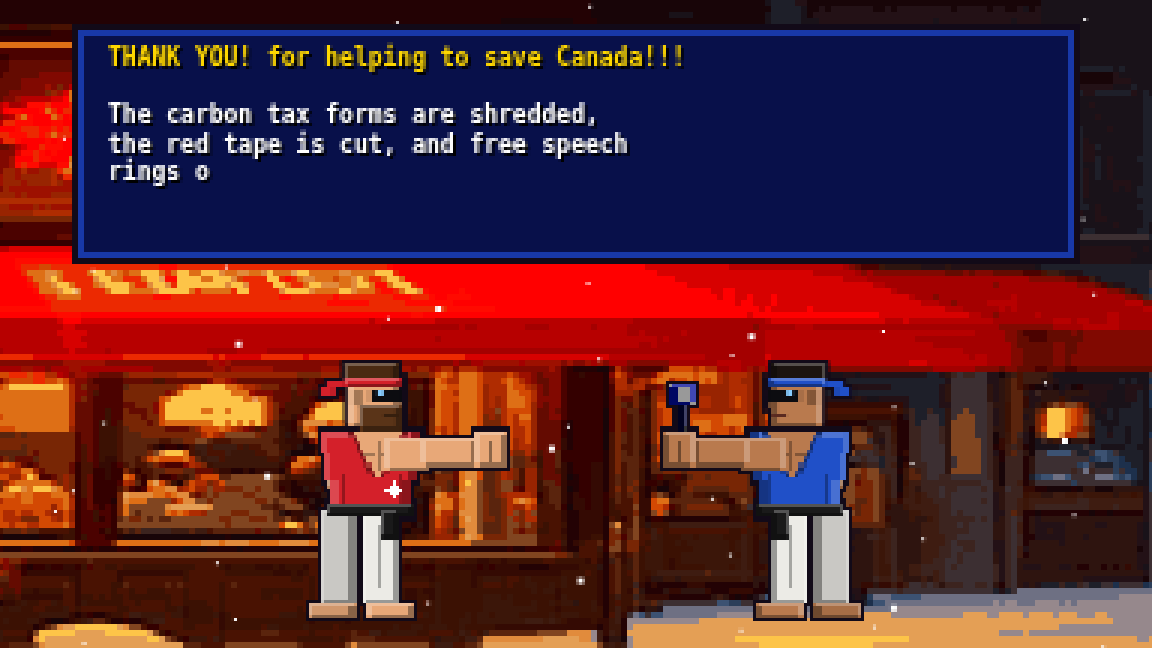
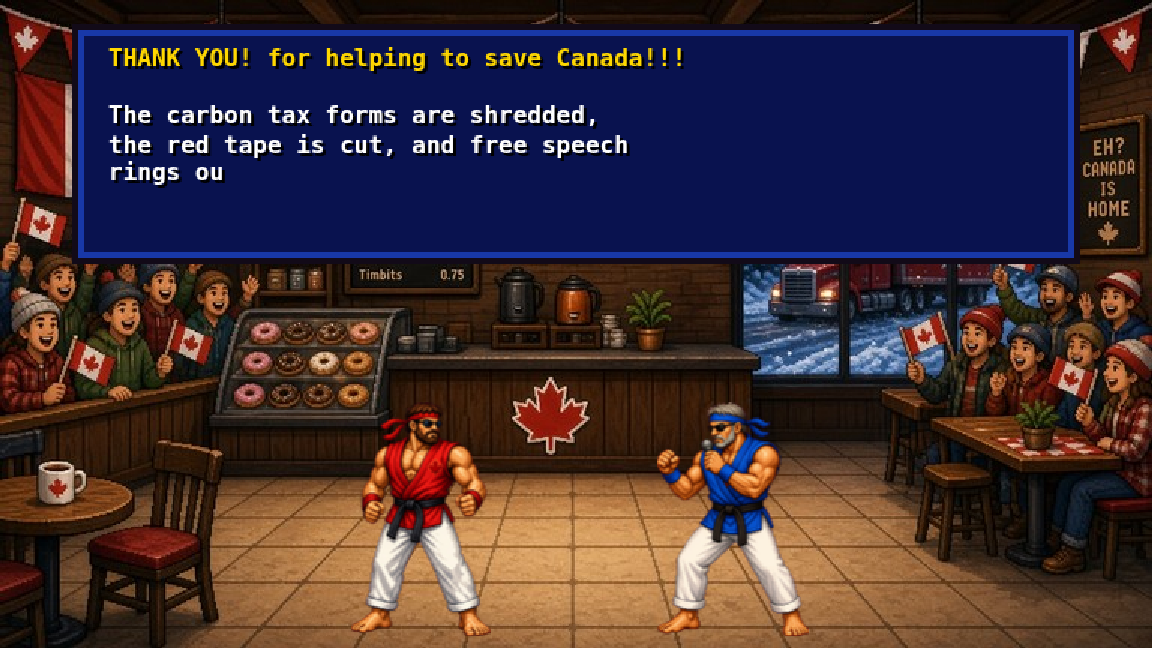
Use generated 16-bit art: keyed sprites, illustrated stages, 2x canvas

diff --git a/art.js b/art.js
@@ -1,132 +1,61 @@
 'use strict';
-// Detailed 16-bit style sprites: shaded parts + dark outline, cached per pose/frame.
-const IMG={};['stage1','stage2','ending','title'].forEach(n=>{const i=new Image();i.src='assets/'+n+'.png';IMG[n]=i;});
-function sh(hex,a){let n=parseInt(hex.slice(1),16),r=n>>16,g=n>>8&255,b=n&255;const f=v=>Math.max(0,Math.min(255,Math.round(a>0?v+(255-v)*a:v*(1+a))));return'#'+((1<<24)|(f(r)<<16)|(f(g)<<8)|f(b)).toString(16).slice(1);}
-function bx(c,x,y,w,h,col){c.fillStyle=col;c.fillRect(x,y,w,h);if(w>2&&h>2){c.fillStyle=sh(col,.25);c.fillRect(x,y,1,h-1);c.fillRect(x,y,w-1,1);c.fillStyle=sh(col,-.35);c.fillRect(x+w-2,y+1,2,h-1);c.fillRect(x+1,y+h-1,w-1,1);}}
+// Sprite/background renderer using pre-made 16-bit art (assets/). Logical canvas 384x216, drawn at 2x.
 const OUT='#120a18';
-const SP={
- trucker:{skin:'#e8a878',gi:'#d4202a',pants:'#ecebe6',belt:'#1a1a1a',band:'#d4202a',shades:1,beard:'#5a3418',hair:'#4a2a12',feet:'skin',leaf:1,vest:1},
- reporter:{skin:'#b97a4e',gi:'#2050c8',pants:'#ecebe6',belt:'#1a1a1a',band:'#2050c8',shades:1,hair:'#1c1410',feet:'skin',mic:1,vest:1},
- taxman:{skin:'#e0a880',gi:'#a89058',pants:'#5a4c34',belt:'#5a4c34',hair:'#3a2a1a',hat:'#3a3428',feet:'#1a1410',clip:1,coat:1},
- bureau:{skin:'#c88e64',gi:'#3c4458',pants:'#2e3446',belt:'#2e3446',hair:'#2a2420',glasses:1,feet:'#111',tie:'#c02020',suit:1,stamp:1},
- bot:{skin:'#9aa4b4',gi:'#6c7688',pants:'#4c5466',belt:'#c02020',feet:'#30343e',robot:1},
- boss:{skin:'#d09a70',gi:'#1e1e26',pants:'#16161c',belt:'#16161c',hair:'#6a6a70',feet:'#000',tie:'#d4a020',suit:1,brief:1,glasses:1}};
-function body(c,s,pose,f){
- const sk=s.skin,gi=s.gi,pa=s.pants,armCol=s.vest?sk:gi,hand=s.robot?'#c8d0dc':sk;
- const bob=pose==='idle'?(f%2):0,lean=pose==='hurt'?-4:pose==='punch'?3:0;
- const st=pose==='walk'?[-5,0,5,0][f%4]:0;
- const T=-52+bob, feetC=s.feet==='skin'?sk:s.feet;
- // back arm
- const backArm=()=>{if(pose==='punch'){bx(c,-12+lean,T+4,8,12,sh(armCol,-.2));bx(c,-10+lean,T+14,8,7,sh(hand,-.2));}
-  else if(pose==='hurt'){bx(c,-18+lean,T+1,10,7,sh(armCol,-.2));bx(c,-24+lean,T-4,7,7,sh(hand,-.2));}
-  else{bx(c,-10+lean-st/2,T+3,8,13,sh(armCol,-.2));bx(c,-6+lean-st/2,T-2,7,9,sh(armCol,-.2));bx(c,-6+lean-st/2,T-7,8,7,sh(hand,-.2));
-   if(s.clip){bx(c,-11+lean,T+4,11,14,'#9a6a3a');c.fillStyle='#f4f0e0';c.fillRect(-10+lean,T+6,9,10);c.fillStyle='#555';for(let i=0;i<4;i++)c.fillRect(-9+lean,T+7+i*2,6,1);}}};
- // legs
- const legs=()=>{if(pose==='kick'){bx(c,-9,-30,10,26,sh(pa,-.15));bx(c,-11,-4,12,4,feetC);bx(c,0,T+18,30,10,pa);bx(c,28,T+16,9,11,feetC);}
-  else{bx(c,-11-st,-30,10,26,sh(pa,-.15));bx(c,-14-st,-4,13,4,sh(feetC,-.1));bx(c,1+st,-30,10,26,pa);bx(c,2+st,-4,13,4,feetC);
-   if(!s.robot){c.fillStyle=sh(pa,-.3);c.fillRect(5+st,-26,1,18);}}};
- const torso=()=>{const x=-12+lean;
-  if(s.robot){bx(c,x-1,T,26,24,gi);bx(c,x+4,T+5,14,10,'#20242c');c.fillStyle='#ff3030';c.fillRect(x+6,T+8,10,3);c.fillStyle='#fff';c.font='bold 5px monospace';c.fillText('',0,0);bx(c,x+2,T+18,20,4,'#c02020');return;}
-  for(let i=0;i<24;i++){const w=i<6?28:i<14?26:22,xx=x+12-w/2;c.fillStyle=i<2?sh(gi,.2):gi;c.fillRect(xx,T+i,w,1);c.fillStyle=sh(gi,.18);c.fillRect(xx,T+i,2,1);c.fillStyle=sh(gi,-.35);c.fillRect(xx+w-3,T+i,3,1);}
-  if(s.vest){for(let i=0;i<13;i++){const w=Math.max(0,14-i);c.fillStyle=sk;c.fillRect(x+12-w/2+2,T+i,w,1);}
-   c.fillStyle=sh(sk,-.3);c.fillRect(x+14,T+3,1,8);c.fillRect(x+9,T+6,4,1);c.fillRect(x+15,T+6,4,1);
-   c.fillStyle=sh(gi,-.45);for(let i=0;i<13;i++){const w=Math.max(0,14-i);c.fillRect(x+12-w/2+1,T+i,1,1);c.fillRect(x+12+w/2+2,T+i,1,1);}
-   c.fillStyle=sh(gi,-.3);c.fillRect(x+4,T+12,1,8);c.fillRect(x+20,T+12,1,8);if(s.leaf)leaf(c,x+16,T+14,'#fff');}
-  if(s.suit||s.coat){c.fillStyle='#f0f0f0';c.fillRect(x+13,T,6,12);if(s.tie){bx(c,x+15,T+1,3,13,s.tie);}c.fillStyle=sh(gi,-.4);c.fillRect(x+12,T,1,16);c.fillRect(x+19,T,1,16);}
-  if(s.coat){bx(c,x,T+20,24,10,gi);}
-  bx(c,x,T+20,24,4,s.belt);if(s.vest){bx(c,x+15,T+22,5,8,s.belt);}};
- const head=()=>{const x=-7+lean*1.3,y=T-17;
-  if(s.robot){bx(c,x-1,y,16,15,'#aab4c4');bx(c,x+3,y+4,12,6,'#14181e');c.fillStyle='#ff3030';c.fillRect(x+4,y+6,10,2);c.fillStyle='#ff3030';c.fillRect(x+6,y-6,2,2);c.fillStyle='#888';c.fillRect(x+6,y-4,2,4);return;}
-  bx(c,x,y,14,16,sk);c.fillStyle=sh(sk,-.3);c.fillRect(x+1,y+6,3,4);// ear
-  bx(c,x-1,y-2,15,6,s.hair);if(s.hat){bx(c,x-3,y-1,20,3,s.hat);bx(c,x,y-6,14,6,s.hat);}
-  if(s.band){bx(c,x-1,y+2,16,3,s.band);c.fillStyle=s.band;c.fillRect(x-6,y+3,5,2);c.fillRect(x-8,y+5,4,2);}
-  if(s.shades){c.fillStyle='#0c0c10';c.fillRect(x+6,y+6,9,3);c.fillStyle='#8cf';c.fillRect(x+8,y+6,2,1);}
-  else if(s.glasses){c.fillStyle='#222';c.fillRect(x+7,y+6,8,1);c.fillRect(x+7,y+6,3,3);c.fillRect(x+12,y+6,3,3);c.fillStyle='#000';c.fillRect(x+11,y+8,1,1);}
-  else{c.fillStyle='#000';c.fillRect(x+10,y+7,2,2);c.fillRect(x+9,y+5,4,1);}
-  c.fillStyle=sh(sk,-.35);c.fillRect(x+13,y+9,2,2);// nose
-  if(s.beard){bx(c,x+3,y+10,12,7,s.beard);c.fillStyle=sh(s.beard,-.4);c.fillRect(x+10,y+12,4,1);}
-  else{c.fillStyle=pose==='hurt'?'#600':'#5a2a20';c.fillRect(x+10,y+12,pose==='hurt'?3:4,pose==='hurt'?3:1);}};
- const frontArm=()=>{const x=lean;if(s.vest&&pose!=='punch'){bx(c,x+6,T-1,10,9,sh(gi,.05));}
-  if(pose==='punch'){bx(c,x+4,T+2,12,9,armCol);bx(c,x+14,T+2,16,8,armCol);bx(c,x+29,T,9,10,hand);c.fillStyle=sh(hand,-.4);c.fillRect(x+33,T+3,1,6);if(s.mic){bx(c,x+31,T-8,3,8,'#333');bx(c,x+29,T-13,7,6,'#999');}}
-  else if(pose==='hurt'){bx(c,x+2,T+1,8,12,armCol);bx(c,x+6,T+10,7,7,hand);}
-  else{bx(c,x+4+st/2,T+2,9,14,armCol);c.fillStyle=sh(armCol,-.3);c.fillRect(x+7+st/2,T+5,1,6);bx(c,x+9+st/2,T-2,8,10,armCol);bx(c,x+9+st/2,T-8,9,8,hand);
-   if(s.mic){bx(c,x+12,T-14,3,7,'#333');bx(c,x+10,T-20,7,7,'#999');c.fillStyle='#666';c.fillRect(x+11,T-18,5,1);}
-   if(s.stamp){bx(c,x+15,T-6,4,8,'#5a3a1a');bx(c,x+12,T+1,10,5,'#b02020');}
-   if(s.brief){bx(c,x+8,T+12,16,12,'#5a3a1a');c.fillStyle='#d4a020';c.fillRect(x+14,T+11,4,2);}}};
- backArm();legs();torso();head();frontArm();
-}
-function leaf(c,x,y,col){c.fillStyle=col;[[2,0],[1,1],[2,1],[3,1],[0,2],[1,2],[2,2],[3,2],[4,2],[1,3],[2,3],[3,3],[2,4]].forEach(([a,b])=>c.fillRect(x+a,y+b,1,1));}
-const CACHE={};
-function sprite(kind,pose,f){const key=kind+pose+f;if(CACHE[key])return CACHE[key];
- const a=document.createElement('canvas');a.width=96;a.height=96;const ac=a.getContext('2d');ac.translate(40,90);body(ac,SP[kind],pose,f);
- const o=document.createElement('canvas');o.width=96;o.height=96;const oc=o.getContext('2d');
- for(const[dx,dy]of[[-1,0],[1,0],[0,-1],[0,1],[-1,-1],[1,1],[1,-1],[-1,1]])oc.drawImage(a,dx,dy);
- oc.globalCompositeOperation='source-in';oc.fillStyle=OUT;oc.fillRect(0,0,96,96);oc.globalCompositeOperation='source-over';oc.drawImage(a,0,0);
- return CACHE[key]=o;}
-function kindOf(f){if(f.player)return f.id?'reporter':'trucker';if(f.type)return f.type;return f.pal===PAL.reporter?'reporter':'trucker';}
-// override character drawing: (sx,sy)=feet position on canvas
-drawFighter=function(f,sx,sy){const k=kindOf(f);let pose=f.pose,fr=pose==='walk'?(f.anim>>3)%4:pose==='idle'?(f.anim>>5)%2:0;
- X.save();X.translate(Math.round(sx),Math.round(sy));
- if(pose==='down'){X.rotate(-Math.PI/2*f.face);X.translate(0,8);pose='hurt';}
- X.scale(f.face,1);const img=sprite(k,pose,fr);X.drawImage(img,-40,-90);
- if(f.flash>0&&(f.flash>>1)%2){X.globalCompositeOperation='lighter';X.globalAlpha=.6;X.drawImage(img,-40,-90);X.globalAlpha=1;X.globalCompositeOperation='source-over';}
+const IMG={};['stage1','stage2','ending'].forEach(n=>{const i=new Image();i.src='assets/'+n+'.jpg';IMG[n]=i;});
+const CH={trucker:'hero1',reporter:'hero2',taxman:'tax',bureau:'bur',bot:'bot',boss:'boss'};
+const POSES={hero1:['idle','punch','kick','hit','down'],hero2:['idle','punch','kick','hit','down'],tax:['idle','attack','hit','down'],bur:['idle','attack','hit','down'],bot:['idle','attack','hit','down'],boss:['idle','attack','hit','down']};
+const SPR={},WHITE={};
+for(const c in POSES){SPR[c]={};for(const p of POSES[c]){const i=new Image();i.src='assets/sprites/'+c+'_'+p+'.png';SPR[c][p]=i;}}
+function whiteOf(img){if(WHITE[img.src])return WHITE[img.src];const o=document.createElement('canvas');o.width=img.width;o.height=img.height;const c=o.getContext('2d');c.drawImage(img,0,0);c.globalCompositeOperation='source-in';c.fillStyle='#fff';c.fillRect(0,0,o.width,o.height);return WHITE[img.src]=o;}
+function kindOf(f){if(f.player)return f.id?'reporter':'trucker';return f.type||'trucker';}
+function frameFor(c,pose,isHero){if(pose==='down')return'down';if(pose==='hurt')return'hit';if(pose==='punch')return isHero?'punch':'attack';if(pose==='kick')return isHero?'kick':'attack';return'idle';}
+drawFighter=function(f,sx,sy){const c=CH[kindOf(f)],hero=c.startsWith('hero');const img=SPR[c][frameFor(c,f.pose,hero)];if(!img||!img.complete||!img.width)return;
+ const w=img.width/2,h=img.height/2;let sqx=1,sqy=1,by=0;
+ if(f.pose==='walk'){const t=f.anim*.35;by=-Math.abs(Math.sin(t))*2;sqy=1+Math.sin(t*2)*.02;sqx=1-Math.sin(t*2)*.02;}
+ else if(f.pose==='idle'){sqy=1+Math.sin(f.anim*.08)*.012;}
+ const flip=hero?f.face<0:f.face>0;
+ X.save();X.translate(Math.round(sx),Math.round(sy+by));X.scale(flip?-sqx:sqx,sqy);
+ // attack frames are wider: shift so body stays roughly in place (extend forward)
+ let ox=-w/2;if(f.pose==='punch'||f.pose==='kick'){const iw=SPR[c].idle.width/2;ox=hero?-iw/2:-(w-iw/2);}
+ X.drawImage(img,ox,-h,w,h);
+ if(f.flash>0&&(f.flash>>1)%2){X.globalAlpha=.75;X.drawImage(whiteOf(img),ox,-h,w,h);X.globalAlpha=1;}
  X.restore();};
-// backgrounds: image tiled + foreground props
-function tiled(img,par,y=0){if(!img.complete||!img.width)return;const w=img.width,o=((camX*par)%w+w)%w;for(let x=-o;x<W;x+=w)X.drawImage(img,Math.round(x),y);}
-function crate(x,y){bx(X,x,y,20,18,'#9a6a34');X.fillStyle='#5a3a18';X.fillRect(x+2,y+8,16,2);X.fillRect(x+9,y+2,2,14);X.strokeStyle=OUT;X.strokeRect(x+.5,y+.5,20,18);}
-function bag(x,y){X.fillStyle=OUT;X.beginPath();X.ellipse(x+10,y+9,11,10,0,0,7);X.fill();X.fillStyle='#22222c';X.beginPath();X.ellipse(x+10,y+9,10,9,0,0,7);X.fill();X.fillStyle='#4a4a5a';X.fillRect(x+5,y+3,3,4);X.fillStyle='#22222c';X.fillRect(x+8,y-3,4,4);}
-function can(x,y){bx(X,x,y,16,22,'#8a8e96');X.fillStyle='#5a5e66';X.fillRect(x+3,y+4,1,16);X.fillRect(x+8,y+4,1,16);X.fillRect(x+12,y+4,1,16);bx(X,x-2,y-3,20,4,'#a0a4ac');X.strokeStyle=OUT;X.strokeRect(x-1.5,y-2.5,19,24);}
-function lampFG(x){bx(X,x,40,4,176,'#1c1c24');bx(X,x-8,36,20,6,'#2a2a34');X.fillStyle='#fff2b0';X.fillRect(x-6,42,16,3);}
-function props(list){for(const[wx,t]of list){const x=wx-camX;if(x<-60||x>W+40)continue;if(t==='crate'){crate(x,186);crate(x+6,168);}else if(t==='bag'){bag(x,190);bag(x+16,192);}else if(t==='can')can(x,186);else if(t==='truck')bigTruck(x,96);}}
-function bigTruck(x,y){X.save();X.translate(x,y);X.fillStyle=OUT;X.fillRect(-2,-2,164,46);bx(X,0,0,120,38,'#c81e28');bx(X,4,4,112,30,'#d83038');leafBig(44,6,3,'#fff');X.fillStyle='#fff';X.font='bold 8px monospace';X.fillText('FREEDOM CONVOY',8,32);
- bx(X,122,6,36,34,'#b01820');bx(X,136,10,18,12,'#9cd4ff');bx(X,118,-12,4,20,'#888');X.fillStyle='#111';X.fillRect(0,38,160,6);for(const w of[10,30,90,110,140]){X.fillStyle=OUT;X.beginPath();X.arc(w+6,46,8,0,7);X.fill();X.fillStyle='#555';X.beginPath();X.arc(w+6,46,3,0,7);X.fill();}X.restore();}
-function leafBig(x,y,s,c){X.fillStyle=c;const m=["....#....","...###...","#..###..#","##.###.##","#########",".#######.","..#####..","....#....","....#...."];m.forEach((r,j)=>[...r].forEach((ch,i)=>{if(ch==='#')X.fillRect(x+i*s,y+j*s,s,s)}));}
-function snowFX(){for(let i=0;i<60;i++){const x=((i*73+tick*(.3+i%3*.2))-(camX*.8))%W,y=(i*41+tick*(.5+i%4*.2))%H;X.fillStyle='#fff';X.fillRect((x+W)%W,y,i%5?1:2,i%5?1:2);}}
-const P1=[[260,'bag'],[330,'crate'],[520,'can'],[600,'truck'],[900,'bag'],[1010,'crate'],[1240,'can'],[1330,'bag'],[1600,'crate']];
-const P2=[[240,'can'],[480,'bag'],[760,'crate'],[1010,'can'],[1290,'bag'],[1500,'crate']];
-LEVELS[0].bg=function(){tiled(IMG.stage1,1);X.fillStyle='rgba(10,10,40,.25)';X.fillRect(0,0,W,H);props(P1);snowFX();};
-LEVELS[1].bg=function(){tiled(IMG.stage2,1);X.fillStyle='rgba(10,10,40,.2)';X.fillRect(0,0,W,H);
- // iron fence
- const o=((camX)%8+8)%8;X.fillStyle=OUT;X.fillRect(0,116,W,2);X.fillRect(0,132,W,2);for(let x=-o;x<W;x+=8){X.fillRect(x,112,2,24);X.fillRect(x-1,110,4,3);}
- props(P2);snowFX();};
-function fgLamps(){for(let i=-1;i<4;i++){const x=i*220-((camX*1.25)%220);lampFG(x);}}
-// Slim arcade HUD
+drawEnt=function(f){const x=f.x-camX,s=f.boss?1.5:1;X.fillStyle='rgba(0,0,0,.45)';X.beginPath();X.ellipse(x,f.y,18*s,4.5*s,0,0,7);X.fill();
+ if(f.player&&!f.alive)return;if(f.player&&f.inv>0&&f.hurtT<=0&&(tick>>2)%2)return;
+ drawFighter(f,x,f.y-f.z);
+ if(f.player&&f.power>0&&tick%6<3){X.fillStyle='#fa2';X.fillRect(x-16,f.y-60,3,3);X.fillRect(x+14,f.y-40,3,3);X.fillRect(x-4,f.y-80,3,3);}};
+function cover(img,par){if(!img.complete||!img.width)return;const w=img.width/2,h=img.height/2;const o=((camX*par)%w+w)%w;for(let x=-o;x<W;x+=w)X.drawImage(img,Math.round(x),0,w+.5,h);}
+function snowFX(n=50){X.fillStyle='rgba(255,255,255,.85)';for(let i=0;i<n;i++){const x=((i*73+tick*(.3+i%3*.2))-(camX*.8))%W,y=(i*41+tick*(.5+i%4*.2))%H;X.fillRect((x+W)%W,y,i%5?1:1.5,i%5?1:1.5);}}
+LEVELS[0].bg=function(){cover(IMG.stage1,1);snowFX();};
+LEVELS[1].bg=function(){cover(IMG.stage2,1);snowFX(30);};
+const _spark=spark;spark=function(x,y){_spark(x,y);fx.push({x,y,vx:0,vy:0,t:5,c:'#fff',s:14,star:1});};
+function portrait(i,x,y){const img=SPR[i?'hero2':'hero1'].idle;if(!img.complete)return;const sw=img.width*.42,sx=img.width*.29;X.drawImage(img,sx,0,sw,sw,x,y,18,18);}
 hud=function(){
- players.forEach((p,i)=>{const x=i?W-92:4,y=4;X.fillStyle='rgba(0,0,0,.55)';X.fillRect(x,y,88,20);
-  X.save();X.beginPath();X.rect(x+1,y+1,18,18);X.clip();X.drawImage(sprite(i?'reporter':'trucker','idle',0),x+1-33,y+1-21);X.restore();X.strokeStyle='#ffd800';X.strokeRect(x+.5,y+.5,19,19);
+ players.forEach((p,i)=>{const x=i?W-92:4,y=4;X.fillStyle='rgba(0,0,0,.55)';X.fillRect(x,y,88,20);X.fillStyle='#223';X.fillRect(x+1,y+1,18,18);portrait(i,x+1,y+1);X.strokeStyle='#ffd800';X.lineWidth=1;X.strokeRect(x+.5,y+.5,19,19);
   X.font='bold 6px monospace';X.textAlign='left';X.textBaseline='top';X.fillStyle=i?'#7cf':'#f77';X.fillText((i?'2P ':'1P ')+p.name+'  x'+Math.max(0,p.lives),x+22,y+2);
   X.fillStyle='#300';X.fillRect(x+22,y+11,62,5);X.fillStyle=p.power>0&&tick%8<4?'#fa2':p.hp>30?'#ffd800':'#f42';X.fillRect(x+22,y+11,62*Math.max(0,p.hp)/100,5);X.strokeStyle='#000';X.strokeRect(x+21.5,y+10.5,63,6);});
- X.font='bold 7px monospace';X.textAlign='center';X.fillStyle='#fff';X.fillText(String(score).padStart(7,'0'),W/2,5);
- if(players.length<2&&state==='play'&&(tick>>5)%2&&!isTouch){X.font='6px monospace';X.fillStyle='#7cf';X.fillText('2P: PRESS ,',W-46,8);}
+ X.font='bold 7px monospace';X.textAlign='center';X.textBaseline='top';X.fillStyle='#fff';X.fillText(String(score).padStart(7,'0'),W/2,5);
+ if(players.length<2&&state==='play'&&(tick>>5)%2&&!isTouch){X.font='6px monospace';X.fillStyle='#7cf';X.fillText('2P: PRESS ,',W-46,27);}
  const b=enemies.find(e=>e.boss);if(b){X.font='bold 7px monospace';X.fillStyle='#f66';X.fillText(b.name,W/2,H-19);X.fillStyle='#000';X.fillRect(W/2-80,H-11,160,6);X.fillStyle='#d22';X.fillRect(W/2-79,H-10,158*Math.max(0,b.hp)/b.max,4);}
  else{const e=enemies.find(e=>e.flash>0);if(e){X.font='bold 6px monospace';X.fillStyle='#ddd';X.fillText(e.name,W/2,15);}}
  floaters.forEach(f=>{if(f.blink&&(tick>>3)%2)return;text(f.s,f.fixed?W/2:f.x-camX,f.y,f.c,f.fixed?10:8,'center')});
  if(paused)text('PAUSED',W/2,90,'#fff',16,'center');};
-// entity draw with bigger shadow, boss scale
-drawEnt=function(f){const x=f.x-camX,s=f.boss?1.45:1;X.fillStyle='rgba(0,0,0,.4)';X.beginPath();X.ellipse(x,f.y,14*s,4*s,0,0,7);X.fill();
- if(f.player&&!f.alive)return;if(f.player&&f.inv>0&&f.hurtT<=0&&(tick>>2)%2)return;
- if(s!==1){X.save();X.translate(x,f.y-f.z);X.scale(s,s);drawFighter(f,0,0);X.restore();}else drawFighter(f,x,f.y-f.z);
- if(f.player&&f.power>0&&tick%6<3){X.fillStyle='#fa2';X.fillRect(x-12,f.y-60,3,3);X.fillRect(x+10,f.y-40,3,3);}};
-// impact flash star on spark
-const _spark=spark;spark=function(x,y){_spark(x,y);fx.push({x,y,vx:0,vy:0,t:5,c:'#fff',s:14,star:1});};
-// title & ending
-title=function(){X.fillStyle='#000';X.fillRect(0,0,W,H);if(IMG.title.complete)X.drawImage(IMG.title,(W-IMG.title.width)/2,0);X.fillStyle='rgba(0,0,30,.35)';X.fillRect(0,0,W,H);snowFX();
- const j=Math.min(1,stateT/45),hy=190-Math.sin(j*Math.PI)*70-(1-j)*120;
- [[110,1,'trucker'],[274,-1,'reporter']].forEach(([x,fc,k],i)=>{X.save();X.translate(x,hy);X.scale(1.3,1.3);drawFighter({player:1,id:i,face:fc,pose:stateT<45?(i?'punch':'kick'):'idle',anim:tick,flash:0},0,0);X.restore();});
- const ty=Math.min(26,-70+Math.max(0,stateT-40)*3);
- X.font='bold 30px Impact, monospace';X.textAlign='center';X.textBaseline='top';
+function leafBig(x,y,s,c){X.fillStyle=c;const m=["....#....","...###...","#..###..#","##.###.##","#########",".#######.","..#####..","....#....","....#...."];m.forEach((r,j)=>[...r].forEach((ch,i)=>{if(ch==='#')X.fillRect(x+i*s,y+j*s,s,s)}));}
+title=function(){X.fillStyle='#000';X.fillRect(0,0,W,H);if(IMG.stage1.complete)X.drawImage(IMG.stage1,0,0,W,H);X.fillStyle='rgba(0,0,25,.62)';X.fillRect(0,0,W,H);snowFX();
+ const j=Math.min(1,stateT/45),hy=208-Math.sin(j*Math.PI)*70-(1-j)*140;
+ [[96,1],[288,-1]].forEach(([x,fc],i)=>drawFighter({player:1,id:i,face:fc,pose:stateT<45?(i?'punch':'kick'):'idle',anim:tick,flash:0},x,hy));
+ const ty=Math.min(22,-70+Math.max(0,stateT-40)*3);
+ X.font='bold 30px Impact, "Arial Black", monospace';X.textAlign='center';X.textBaseline='top';
  for(const[t,yy]of[['TRUE NORTH',ty],['DRAGONS',ty+32]]){X.lineWidth=5;X.strokeStyle=OUT;X.strokeText(t,W/2,yy);X.fillStyle='#b01010';X.fillText(t,W/2+2,yy+2);const g=X.createLinearGradient(0,yy,0,yy+30);g.addColorStop(0,'#fff6a0');g.addColorStop(.5,'#ffd800');g.addColorStop(1,'#e07000');X.fillStyle=g;X.fillText(t,W/2,yy);}
  if(stateT>80){leafBig(W/2-9,ty+66,2,'#e02020');
-  if((tick>>4)%2)text(isTouch?'TAP TO START':'PRESS START',W/2,178,'#fff',10,'center');
-  if(!isTouch)text('Press , for 2 PLAYERS',W/2,192,'#7cf',7,'center');
-  text('HI '+hi+'  ©2026 PASSCOOL STUDIO · FICTIONAL SATIRE',W/2,205,'#aaa',6,'center');}};
-drawCafe=function(){X.fillStyle='#000';X.fillRect(0,0,W,H);if(IMG.ending.complete)X.drawImage(IMG.ending,-((stateT*.2)%Math.max(1,IMG.ending.width-W)),0);snowFX();};
-// patch render: use new cafe, impact stars, fg lamps
+  if((tick>>4)%2)text(isTouch?'TAP TO START':'PRESS START',W/2,170,'#fff',10,'center');
+  if(!isTouch)text('Press , for 2 PLAYERS',W/2,186,'#7cf',7,'center');
+  text('HI '+hi+'  ©2026 PASSCOOL STUDIO · FICTIONAL SATIRE',W/2,203,'#aaa',6,'center');}};
 const _render=render;render=function(){
- if(state==='victory'||state==='tbc'){X.save();drawCafe();[0,1].forEach(i=>{X.save();X.translate(120+i*150,206);X.scale(1.2,1.2);drawFighter({player:1,id:i,face:i?-1:1,pose:(tick>>4)%2?'punch':'idle',anim:tick,flash:0},0,0);X.restore();});
-  if(state==='victory'){X.fillStyle=OUT;X.fillRect(24,8,W-48,80);X.fillStyle='#1838a8';X.fillRect(26,10,W-52,76);X.fillStyle='#08104a';X.fillRect(28,12,W-56,72);VMSG.slice(0,typeT).split('\n').forEach((l,i)=>text(l,36,16+i*9.5,i===0?'#ffd800':'#fff',8));}
-  else{X.fillStyle='rgba(0,0,0,.65)';X.fillRect(0,0,W,H);text('TO BE CONTINUED...',W/2,84,'#ffd800',18,'center');text('FINAL SCORE '+score,W/2,112,'#fff',9,'center');if(stateT>90&&(tick>>4)%2)text('PRESS START',W/2,140,'#aaa',8,'center');}
+ if(state==='victory'||state==='tbc'){X.save();if(IMG.ending.complete)X.drawImage(IMG.ending,0,0,W,H);
+  [0,1].forEach(i=>drawFighter({player:1,id:i,face:i?-1:1,pose:(tick>>4)%2?'punch':'idle',anim:tick,flash:0},140+i*104,212));
+  if(state==='victory'){X.fillStyle=OUT;X.fillRect(24,8,W-48,80);X.fillStyle='#1838a8';X.fillRect(26,10,W-52,76);X.fillStyle='rgba(8,16,74,.95)';X.fillRect(28,12,W-56,72);VMSG.slice(0,typeT).split('\n').forEach((l,i)=>text(l,36,16+i*9.5,i===0?'#ffd800':'#fff',8));}
+  else{X.fillStyle='rgba(0,0,0,.6)';X.fillRect(0,0,W,H);text('TO BE CONTINUED...',W/2,84,'#ffd800',18,'center');text('FINAL SCORE '+score,W/2,112,'#fff',9,'center');if(stateT>90&&(tick>>4)%2)text('PRESS START',W/2,140,'#aaa',8,'center');}
   X.restore();return;}
  _render();
- if(state==='play'||state==='intro'||state==='clear'){X.save();fgLamps();X.restore();
-  for(const f of fx)if(f.star){const x=f.x-camX,y=f.y;X.fillStyle='#fff';X.fillRect(x-7,y-1,14,3);X.fillRect(x-1,y-7,3,14);X.fillRect(x-4,y-4,9,9);}}};
+ if(state==='play'||state==='intro'||state==='clear')for(const f of fx)if(f.star){const x=f.x-camX,y=f.y;X.fillStyle='#fff';X.fillRect(x-7,y-1,14,3);X.fillRect(x-1,y-7,3,14);X.fillRect(x-4,y-4,9,9);}};

diff --git a/game.js b/game.js
@@ -110,12 +110,12 @@ function updatePlayer(p){
  if(p.cd<=0&&(prs(p,'punch')||prs(p,'kick'))){const k=prs(p,'kick');p.atkType=k?'kick':'punch';p.atk=k?16:11;p.cd=k?14:8;p.pose=p.atkType;(k?SFX.kick:SFX.whiff)();}
 }
 function doHit(p){
- const reach=p.atkType==='kick'?44:38;let any=false;
+ const reach=p.atkType==='kick'?56:48;let any=false;
  for(const e of enemies){if(e.dead||e.hurtT>12)continue;const dx=(e.x-p.x)*p.face;if(dx>-4&&dx<reach&&Math.abs(e.y-p.y)<14){any=true;
   p.combo=p.comboT>0?p.combo+1:1;p.comboT=50;const fin=p.combo>=3;let dmg=(p.atkType==='kick'?12:8)*(p.power?2:1)*(fin?1.6:1);
   e.hp-=dmg;e.flash=10;e.hurtT=fin||e.hp<=0?40:16;e.knock=fin||e.hp<=0?1:0;e.vx=p.face*(fin?3:1);if(e.knock){e.vz=3;}e.face=-p.face;shake=fin?6:3;
-  score+=10*p.combo;spark(e.x,e.y-26);if(fin){floaters.push({x:e.x,y:e.y-50,t:50,s:'COMBO x'+p.combo+'!',c:'#ff0'});p.combo=0;}
-  if(e.hp<=0&&!e.dead){e.dead=1;score+=e.pts;floaters.push({x:e.x,y:e.y-44,t:50,s:'+'+e.pts,c:'#fff'});if(e.boss){SFX.boss();}}}}
+  score+=10*p.combo;spark(e.x,e.y-48);if(fin){floaters.push({x:e.x,y:e.y-84,t:50,s:'COMBO x'+p.combo+'!',c:'#ff0'});p.combo=0;}
+  if(e.hp<=0&&!e.dead){e.dead=1;score+=e.pts;floaters.push({x:e.x,y:e.y-80,t:50,s:'+'+e.pts,c:'#fff'});if(e.boss){SFX.boss();}}}}
  if(any)(p.atkType==='kick'?SFX.kick:SFX.hit)();
 }
 function updateEnemy(e){
@@ -125,15 +125,15 @@ function updateEnemy(e){
  if(e.dead){e.gone=1;poof(e.x,e.y);return;}
  const live=players.filter(p=>p.alive);if(!live.length)return;
  let t=live.reduce((a,b)=>Math.abs(a.x-e.x)+Math.abs(a.y-e.y)<Math.abs(b.x-e.x)+Math.abs(b.y-e.y)?a:b);
- if(e.atk>0){e.atk--;e.pose=e.atk<12?'punch':'idle';if(e.atk===8){const dx=(t.x-e.x)*e.face;const r=e.boss?52:36;if(dx>-4&&dx<r&&Math.abs(t.y-e.y)<12&&t.inv<=0&&t.hurtT<=0){t.hp-=e.dmg;t.flash=10;t.hurtT=t.hp<=0?60:18;t.inv=t.hp<=0?0:40;t.x-=e.face*-6;shake=4;SFX.hurt();spark(t.x,t.y-26);}}return;}
+ if(e.atk>0){e.atk--;e.pose=e.atk<12?'punch':'idle';if(e.atk===8){const dx=(t.x-e.x)*e.face;const r=e.boss?66:46;if(dx>-4&&dx<r&&Math.abs(t.y-e.y)<12&&t.inv<=0&&t.hurtT<=0){t.hp-=e.dmg;t.flash=10;t.hurtT=t.hp<=0?60:18;t.inv=t.hp<=0?0:40;t.x-=e.face*-6;shake=4;SFX.hurt();spark(t.x,t.y-48);}}return;}
  if(--e.think<=0){e.think=30+Math.random()*40;e.side=t.x<e.x?1:-1;e.ty=(Math.random()-.5)*8;}
- const gx=t.x+e.side*30,gy=t.y+e.ty;const dx=gx-e.x,dy=gy-e.y;e.face=t.x<e.x?-1:1;
+ const gx=t.x+e.side*44,gy=t.y+e.ty;const dx=gx-e.x,dy=gy-e.y;e.face=t.x<e.x?-1:1;
  if(Math.abs(dx)>3||Math.abs(dy)>3){e.x+=Math.sign(dx)*Math.min(Math.abs(dx),e.spd*(e.boss&&e.hp<e.max/2?1.5:1));e.y+=Math.sign(dy)*Math.min(Math.abs(dy),e.spd*.7);e.pose='walk';}else e.pose='idle';
  e.y=Math.max(FLOOR_TOP+8,Math.min(FLOOR_BOT,e.y));
- if(e.cd>0)e.cd--;else if(Math.abs(t.x-e.x)<(e.boss?56:38)&&Math.abs(t.y-e.y)<10){e.atk=24;e.cd=(e.boss?50:80)+Math.random()*60;}
+ if(e.cd>0)e.cd--;else if(Math.abs(t.x-e.x)<(e.boss?70:48)&&Math.abs(t.y-e.y)<10){e.atk=24;e.cd=(e.boss?50:80)+Math.random()*60;}
 }
 function spark(x,y){for(let i=0;i<6;i++)fx.push({x,y,vx:(Math.random()-.5)*4,vy:(Math.random()-.5)*4,t:12,c:i%2?'#ff0':'#fff',s:2});}
-function poof(x,y){for(let i=0;i<14;i++)fx.push({x:x+(Math.random()-.5)*20,y:y-10-Math.random()*25,vx:(Math.random()-.5)*1.2,vy:-Math.random()*.8,t:30+Math.random()*15,c:['#ddd','#bbb','#999'][i%3],s:4+Math.random()*5|0,smoke:1});}
+function poof(x,y){for(let i=0;i<14;i++)fx.push({x:x+(Math.random()-.5)*40,y:y-10-Math.random()*60,vx:(Math.random()-.5)*1.2,vy:-Math.random()*.8,t:30+Math.random()*15,c:['#ddd','#bbb','#999'][i%3],s:4+Math.random()*5|0,smoke:1});}
 
 function update(){
  tick++;stateT++;
@@ -267,6 +267,6 @@ function render(){
 }
 // fixed timestep loop
 let last=performance.now(),acc=0;
-function loop(now){acc+=Math.min(100,now-last);last=now;while(acc>=1000/60){update();acc-=1000/60;}render();requestAnimationFrame(loop);}
+function loop(now){acc+=Math.min(100,now-last);last=now;while(acc>=1000/60){update();acc-=1000/60;}X.setTransform(2,0,0,2,0,0);X.imageSmoothingEnabled=true;render();requestAnimationFrame(loop);}
 requestAnimationFrame(loop);
-window.__game={get state(){return state},startGame,startLevel:n=>startLevel(n),get players(){return players},get enemies(){return enemies},get camX(){return camX},win(){state='victory';stateT=0;typeT=0;playSong('win');}};
+window.__game={get state(){return state},startGame,startLevel:n=>startLevel(n),get players(){return players},get enemies(){return enemies},get camX(){return camX},boss(){startLevel(1);state='play';camX=1080;waveIdx=3;players.forEach((p,i)=>{p.x=1200+i*20;p.inv=600;});},win(){state='victory';stateT=0;typeT=0;playSong('win');}};

diff --git a/index.html b/index.html
@@ -9,7 +9,7 @@ canvas{image-rendering:pixelated;image-rendering:crisp-edges;background:#000}
 .tb{position:absolute;pointer-events:auto;border:2px solid rgba(255,255,255,.5);background:rgba(255,255,255,.12);border-radius:50%;color:#fff;font:bold 16px monospace;display:flex;align-items:center;justify-content:center;user-select:none;-webkit-user-select:none}
 #help{position:absolute;bottom:4px;width:100%;text-align:center;font-size:11px;color:#888}
 </style></head><body>
-<div id="wrap"><canvas id="c" width="384" height="216"></canvas></div>
+<div id="wrap"><canvas id="c" width="768" height="432"></canvas></div>
 <div id="touch">
  <div class="tb" id="t-dpad" style="left:16px;bottom:16px;width:130px;height:130px;font-size:12px">MOVE</div>
  <div class="tb" data-k="p1punch" style="right:90px;bottom:24px;width:64px;height:64px">J<br></div>

diff --git a/keyout.py b/keyout.py
@@ -1,0 +1,39 @@
+import numpy as np
+from PIL import Image
+from scipy import ndimage as nd
+import glob,os,json
+H=156  # sprite height at 2x render (36% of 432)
+names={'hero1':['idle','punch','kick','hit'],'hero2':['idle','punch','kick','hit'],'tax':['idle','attack','hit'],'bur':['idle','attack','hit'],'bot':['idle','attack','hit'],'boss':['idle','attack','hit']}
+meta={}
+# reference scale per character from idle bbox height
+for ch,poses in names.items():
+    cuts={}
+    for p in poses:
+        a=np.asarray(Image.open(f'raw/{ch}_{p}.jpg').convert('RGB')).astype(int);R,G,B=a[...,0],a[...,1],a[...,2]
+        cand=(R>140)&(B>80)&(G<110)&(R-G>90)
+        lab,n=nd.label(cand);border=set(np.unique(np.r_[lab[0],lab[-1],lab[:,0],lab[:,-1]]))-{0}
+        bg=np.isin(lab,list(border))|((R>170)&(B>110)&(G<90)&(R-G>110))
+        bg=nd.binary_closing(bg,iterations=1)|bg
+        fg=~bg; fg=nd.binary_opening(fg,iterations=1)
+        fg=nd.binary_erosion(fg,iterations=1)
+        # drop small islands
+        l2,n2=nd.label(fg)
+        if n2>1:
+            sz=nd.sum(fg,l2,range(1,n2+1));keep=np.isin(l2,[i+1 for i,s in enumerate(sz) if s>0.01*sz.max()]);fg=keep
+        out=np.zeros(a.shape[:2]+(4,),np.uint8);out[...,:3]=a
+        # despill: edge pixels pinkish -> reduce
+        edge=fg&~nd.binary_erosion(fg,iterations=2)
+        sp=edge&(R-G>40)&(B-G>20)
+        out[...,0][sp]=np.minimum(R[sp],G[sp]+40);out[...,2][sp]=np.minimum(B[sp],G[sp]+40)
+        out[...,3]=fg*255
+        ys,xs=np.where(fg);cuts[p]=(Image.fromarray(out),(xs.min(),ys.min(),xs.max()+1,ys.max()+1))
+    ih=cuts['idle'][1][3]-cuts['idle'][1][1]
+    target=H*(1.4 if ch=='boss' else 1.0)*(0.95 if ch in('tax','bur','bot') else 1)
+    s=target/ih;meta[ch]={}
+    for p,(im,bb) in cuts.items():
+        c=im.crop(bb);w,h=c.size;c=c.resize((max(1,round(w*s)),max(1,round(h*s))),Image.LANCZOS)
+        c.save(f'assets/sprites/{ch}_{p}.png');meta[ch][p]=c.size
+    # down frame from hit, rotated backward (heroes face right -> fall left = rotate CCW 80)
+    hit=Image.open(f'assets/sprites/{ch}_hit.png');ang=80 if ch.startswith('hero') else -80
+    d=hit.rotate(ang,expand=True,resample=Image.BICUBIC);d=d.crop(d.getbbox());d.save(f'assets/sprites/{ch}_down.png');meta[ch]['down']=d.size
+json.dump(meta,open('/tmp/meta.json','w'));print(meta)
